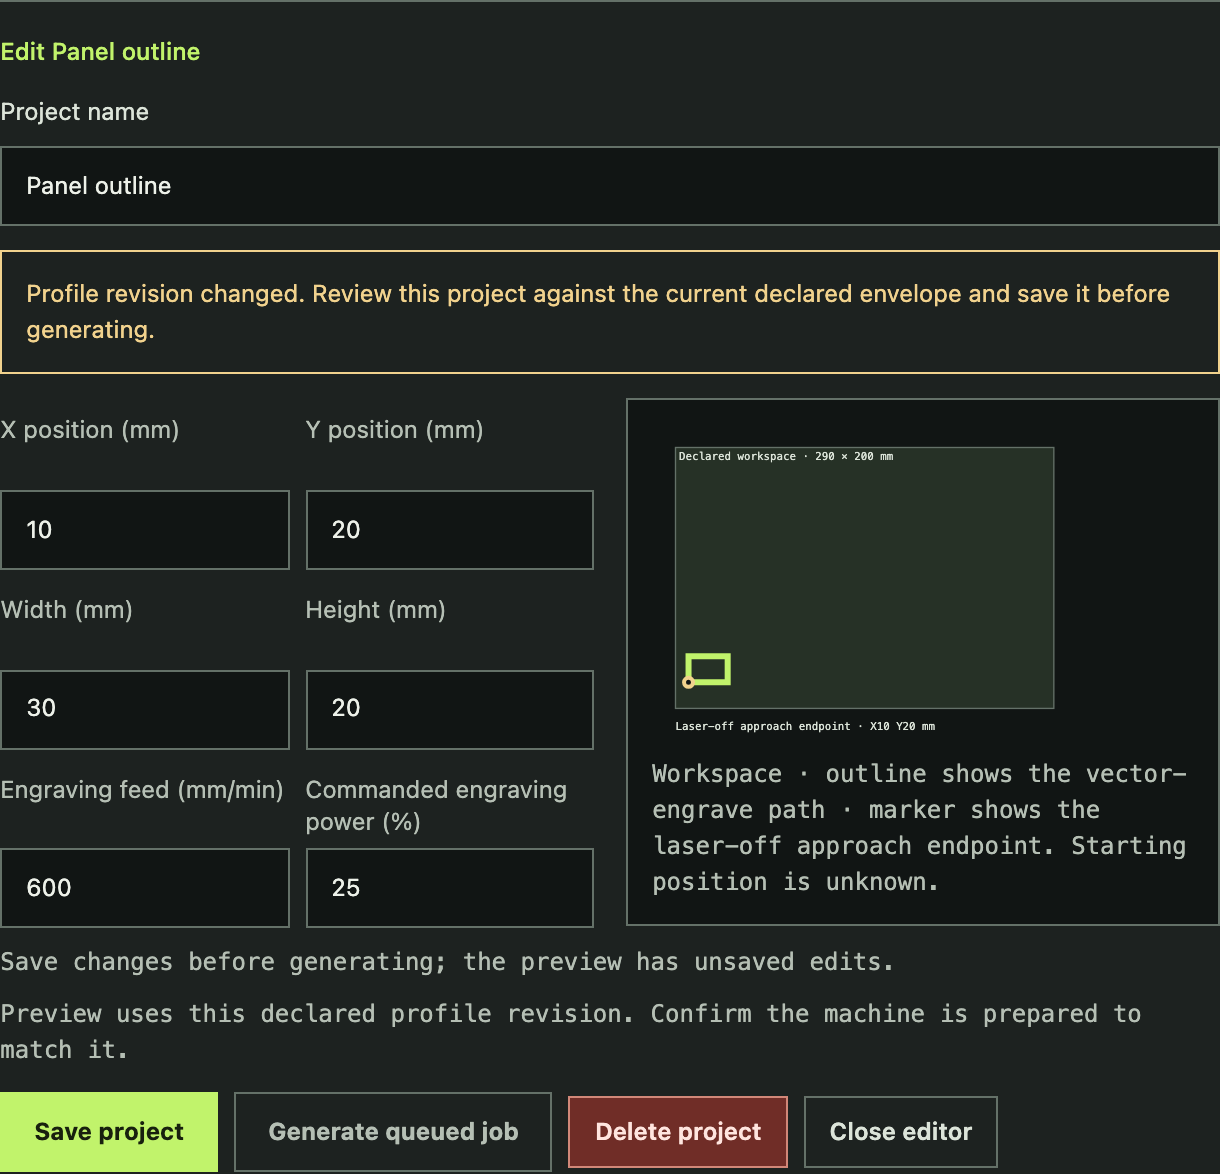
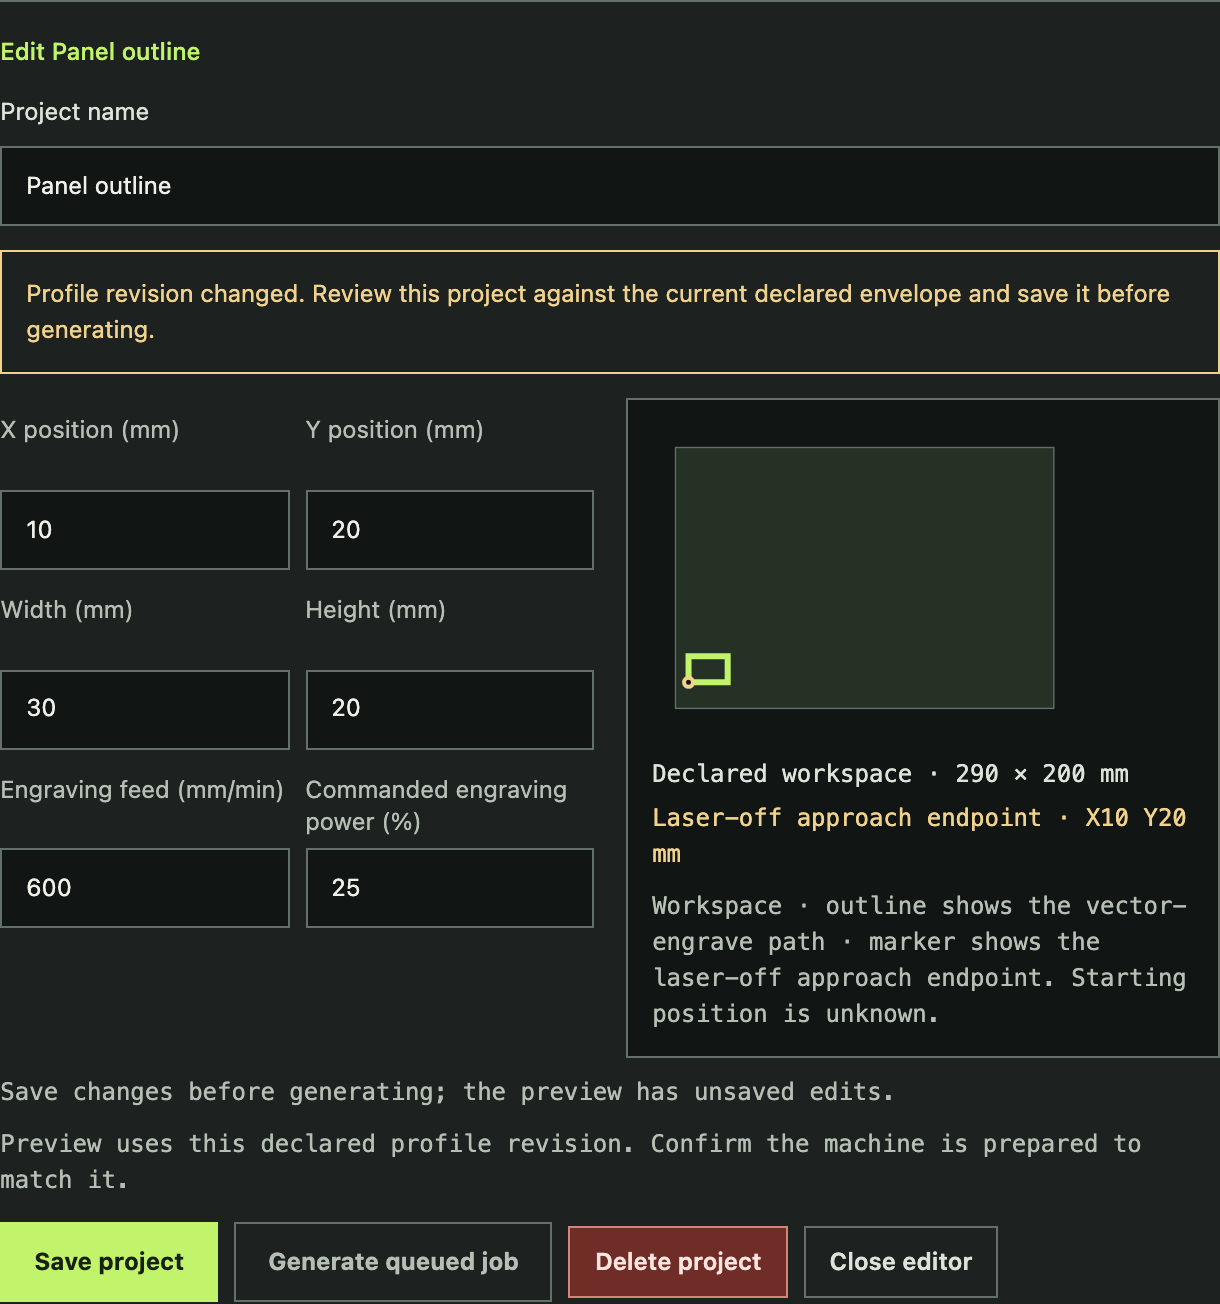
fix: keep rectangle preview labels readable

diff --git a/e2e/designer-preview.spec.js b/e2e/designer-preview.spec.js
@@ -1,0 +1,71 @@
+const { test, expect } = require('@playwright/test');
+
+const apiKey = 'emberdeck-e2e-test-key';
+
+test('rectangle preview keeps readable labels and shows an out-of-bounds rectangle', async ({ page }) => {
+  await page.goto('/designer');
+  await page.locator('#api-key').fill(apiKey);
+  await page.getByRole('button', { name: /Connect/ }).click();
+  await expect(page.locator('#connection-state')).toHaveText('Connected · library synced');
+
+  await page.getByRole('button', { name: 'New profile' }).click();
+  await page.locator('#profile-name').fill(`Preview profile ${Date.now()}`);
+  await page.locator('#profile-width').fill('400');
+  await page.locator('#profile-height').fill('300');
+  await page.locator('#profile-max-s').fill('1000');
+  await page.locator('#profile-min-feed').fill('1');
+  await page.locator('#profile-max-feed').fill('6000');
+  await page.locator('#profile-max-power').fill('100');
+  await page.getByRole('button', { name: 'Save profile' }).click();
+  await expect(page.locator('#notice .notice-message')).toContainText('Profile saved');
+
+  await page.getByRole('button', { name: 'New rectangle project' }).click();
+  await page.locator('#project-name').fill('Out-of-bounds preview');
+  await page.locator('#rect-x').fill('390');
+  await page.locator('#rect-y').fill('20');
+  await page.locator('#rect-width').fill('30');
+  await page.locator('#rect-height').fill('20');
+  await page.locator('#operation-feed').fill('600');
+  await page.locator('#operation-power').fill('25');
+  await expect(page.locator('#project-validation')).toContainText(/outside the declared workspace/i);
+
+  const preview = page.locator('#project-preview');
+  const workspace = preview.locator('.workspace-shape');
+  const rectangle = preview.locator('.engrave-path.out-of-bounds');
+  await expect(rectangle).toHaveCount(1);
+  const warningStyle = await rectangle.evaluate((node) => ({
+    stroke: getComputedStyle(node).stroke,
+    warning: getComputedStyle(document.querySelector('#preview-approach-label')).color,
+  }));
+  expect(warningStyle.stroke).toBe(warningStyle.warning);
+  const geometry = await page.evaluate(() => {
+    const workspace = document.querySelector('#preview-content .workspace-shape').getBoundingClientRect();
+    const rectangle = document.querySelector('#preview-content .out-of-bounds').getBoundingClientRect();
+    const svg = document.querySelector('#project-preview').getBoundingClientRect();
+    return { overrun: rectangle.right - workspace.right, clipped: rectangle.right > svg.right };
+  });
+  expect(geometry.overrun).toBeGreaterThan(0);
+  expect(geometry.clipped).toBe(false);
+
+  await page.locator('#rect-x').fill('-5');
+  await expect(page.locator('#project-validation')).toContainText(/position must be nonnegative/i);
+  await expect(rectangle).toHaveCount(1);
+  const negativeGeometry = await page.evaluate(() => {
+    const workspace = document.querySelector('#preview-content .workspace-shape').getBoundingClientRect();
+    const rectangle = document.querySelector('#preview-content .out-of-bounds').getBoundingClientRect();
+    const svg = document.querySelector('#project-preview').getBoundingClientRect();
+    return { overrun: workspace.left - rectangle.left, clipped: rectangle.left < svg.left };
+  });
+  expect(negativeGeometry.overrun).toBeGreaterThan(0);
+  expect(negativeGeometry.clipped).toBe(false);
+
+  for (const width of [360, 375, 390, 768, 1440]) {
+    await page.setViewportSize({ width, height: 900 });
+    for (const selector of ['#preview-workspace-label', '#preview-approach-label']) {
+      const label = page.locator(selector);
+      await expect(label).toBeVisible();
+      const fontSize = await label.evaluate((node) => Number.parseFloat(getComputedStyle(node).fontSize));
+      expect(fontSize).toBeGreaterThanOrEqual(11);
+    }
+  }
+});

diff --git a/internal/server/assets/app.js b/internal/server/assets/app.js
@@ -499,18 +499,31 @@
     const x = finiteField(projectFields.x_mm), y = finiteField(projectFields.y_mm);
     const w = finiteField(projectFields.width_mm), h = finiteField(projectFields.height_mm);
     if (![W, H].every(Number.isFinite) || W <= 0 || H <= 0) return;
-    const scale = Math.min(550 / W, 290 / H);
+    const hasRectangle = [x, y, w, h].every(Number.isFinite) && w > 0 && h > 0;
+    const minX = hasRectangle ? Math.min(0, x) : 0;
+    const minY = hasRectangle ? Math.min(0, y) : 0;
+    const drawnWidth = hasRectangle ? Math.max(W, x + w) - minX : W;
+    const drawnHeight = hasRectangle ? Math.max(H, y + h) - minY : H;
+    const scale = Math.min(550 / drawnWidth, 290 / drawnHeight);
     if (!Number.isFinite(scale) || scale <= 0) return;
-    const left = 35, bottom = 325, width = W * scale, height = H * scale;
+    const left = 35 - minX * scale, bottom = 325 + minY * scale, width = W * scale, height = H * scale;
     if (![left, bottom, width, height].every(Number.isFinite)) return;
     content.append(svgElement("rect", { class: "workspace-shape", x: left, y: bottom - height, width, height }));
-    content.append(svgElement("text", { x: left + 4, y: bottom - height + 14 }, `Declared workspace · ${W} × ${H} mm`));
-    if (![x, y, w, h].every(Number.isFinite) || w <= 0 || h <= 0 || x < 0 || y < 0 || milli(x) + milli(w) > milli(W) || milli(y) + milli(h) > milli(H)) return;
-    const px = left + x * scale, py = bottom - (y + h) * scale, pw = w * scale;
+    $("#preview-workspace-label").textContent = `Declared workspace · ${W} × ${H} mm`;
+    $("#preview-approach-label").textContent = hasRectangle
+      ? `Laser-off approach endpoint · X${x} Y${y} mm`
+      : "Laser-off approach endpoint · enter a valid nonnegative position";
+    if (!hasRectangle) return;
+    const px = 35 + (x - minX) * scale, py = bottom - (y + h) * scale, pw = w * scale;
     if (![px, py, pw].every(Number.isFinite)) return;
-    content.append(svgElement("path", { class: "engrave-path", d: `M ${px} ${bottom-y*scale} L ${px+pw} ${bottom-y*scale} L ${px+pw} ${py} L ${px} ${py} Z` }));
+    const outOfBounds = x < 0 || y < 0 || milli(x) + milli(w) > milli(W) || milli(y) + milli(h) > milli(H);
+    const preview = $("#project-preview");
+    preview.setAttribute("aria-label", outOfBounds ? "Out-of-bounds rectangle and declared workspace preview" : "Declared workspace preview in millimetres");
+    preview.querySelector("desc").textContent = outOfBounds
+      ? "The rectangle is shown at its position with the portion outside the declared workspace highlighted."
+      : "Rectangle and laser-off approach endpoint in the declared work area.";
+    content.append(svgElement("path", { class: `engrave-path${outOfBounds ? " out-of-bounds" : ""}`, d: `M ${px} ${bottom-y*scale} L ${px+pw} ${bottom-y*scale} L ${px+pw} ${py} L ${px} ${py} Z` }));
     content.append(svgElement("circle", { class: "approach-point", cx: px, cy: bottom-y*scale, r: 5 }));
-    content.append(svgElement("text", { x: left, y: 349 }, `Laser-off approach endpoint · X${x} Y${y} mm`));
   }
 
   function updateProjectValidation() {

diff --git a/internal/server/assets/index.html b/internal/server/assets/index.html
@@ -75,7 +75,7 @@
                 <label>Engraving feed (mm/min)<input id="operation-feed" aria-label="Engraving feed (mm/min)" type="number" min="0.001" step="0.001" required></label>
                 <label>Commanded engraving power (%)<input id="operation-power" aria-label="Engraving power (%)" type="number" min="0.001" max="100" step="0.001" required></label>
               </div>
-              <div class="preview-wrap"><svg id="project-preview" viewBox="0 0 620 360" role="img" aria-label="Declared workspace preview in millimetres"><title>Declared workspace preview</title><desc>Rectangle and laser-off approach endpoint in the declared work area.</desc><g id="preview-content"></g></svg><p id="preview-legend">Workspace · outline shows the vector-engrave path · marker shows the laser-off approach endpoint. Starting position is unknown.</p></div>
+              <div class="preview-wrap"><svg id="project-preview" viewBox="0 0 620 360" role="img" aria-label="Declared workspace preview in millimetres"><title>Declared workspace preview</title><desc>Rectangle and laser-off approach endpoint in the declared work area.</desc><g id="preview-content"></g></svg><div class="preview-annotations"><p id="preview-workspace-label">Declared workspace</p><p id="preview-approach-label">Laser-off approach endpoint: not set</p></div><p id="preview-legend">Workspace · outline shows the vector-engrave path · marker shows the laser-off approach endpoint. Starting position is unknown.</p></div>
             </div>
             <p id="project-validation" class="form-validation" role="alert" hidden></p>
             <p id="project-save-hint" class="hint" hidden>Save changes before generating; the preview has unsaved edits.</p>

diff --git a/e2e/capture-docs.js b/e2e/capture-docs.js
@@ -194,11 +194,12 @@ async function main() {
     await page.getByRole('button', { name: 'Save project' }).click();
     await expect(page.locator('#notice .notice-message')).toContainText('Project saved');
     await captureElement(page, '#project-form', 'designer-project.png');
-    await page.locator('#rect-width').fill('400');
+    await page.locator('#rect-x').fill('290');
     await expect(page.locator('#project-validation')).toContainText(/outside the declared workspace/i);
+    await expect(page.locator('#project-preview .engrave-path.out-of-bounds')).toHaveCount(1);
     await expect(page.getByRole('button', { name: 'Save project' })).toBeDisabled();
     await captureElement(page, '#project-form', 'designer-project-out-of-bounds.png');
-    await page.locator('#rect-width').fill('30');
+    await page.locator('#rect-x').fill('10');
     await page.getByRole('button', { name: 'Save project' }).click();
     await expect(page.locator('#notice .notice-message')).toContainText('Project saved');
     await page.getByRole('button', { name: 'Close editor' }).click();

diff --git a/internal/server/assets/style.css b/internal/server/assets/style.css
@@ -931,6 +931,11 @@ footer {
   vector-effect: non-scaling-stroke;
 }
 
+.preview-wrap .engrave-path.out-of-bounds {
+  stroke: var(--warning);
+  stroke-dasharray: 7 4;
+}
+
 .preview-wrap .approach-point {
   fill: var(--surface-control);
   stroke: var(--warning);
@@ -941,6 +946,25 @@ footer {
 .preview-wrap text {
   fill: var(--text-secondary);
   font: var(--type-xs) var(--mono);
+}
+
+.preview-annotations {
+  display: grid;
+  gap: var(--space-1);
+  margin: var(--space-2) var(--space-1);
+}
+
+.preview-annotation,
+.preview-annotations p {
+  margin: 0;
+  color: var(--text-secondary);
+  font-size: 12px;
+  line-height: 1.5;
+  overflow-wrap: anywhere;
+}
+
+.preview-annotations #preview-approach-label {
+  color: var(--warning);
 }
 
 .form-validation {

diff --git a/docs/operator-guide.md b/docs/operator-guide.md
@@ -214,8 +214,12 @@ unassigned; no operation or machine settings are inferred.
 
 If a shape extends past the declared workspace, the editor explains the bounds
 error and disables both saving and generation until the dimensions are corrected.
+The preview keeps the full rectangle visible at its actual position and marks
+the overrun with a warning outline. Workspace dimensions and the laser-off
+approach coordinates appear as text below the drawing so they remain readable
+at phone widths.
 
-![Out-of-bounds rectangle with saving and generation disabled](assets/screenshots/designer-project-out-of-bounds.png)
+![Visible out-of-bounds rectangle with warning outline, readable workspace labels, and saving disabled](assets/screenshots/designer-project-out-of-bounds.png)
 
 Saved profiles and projects can be reopened, edited, and deleted. Editing a
 profile makes its projects require review against the new revision; save the
